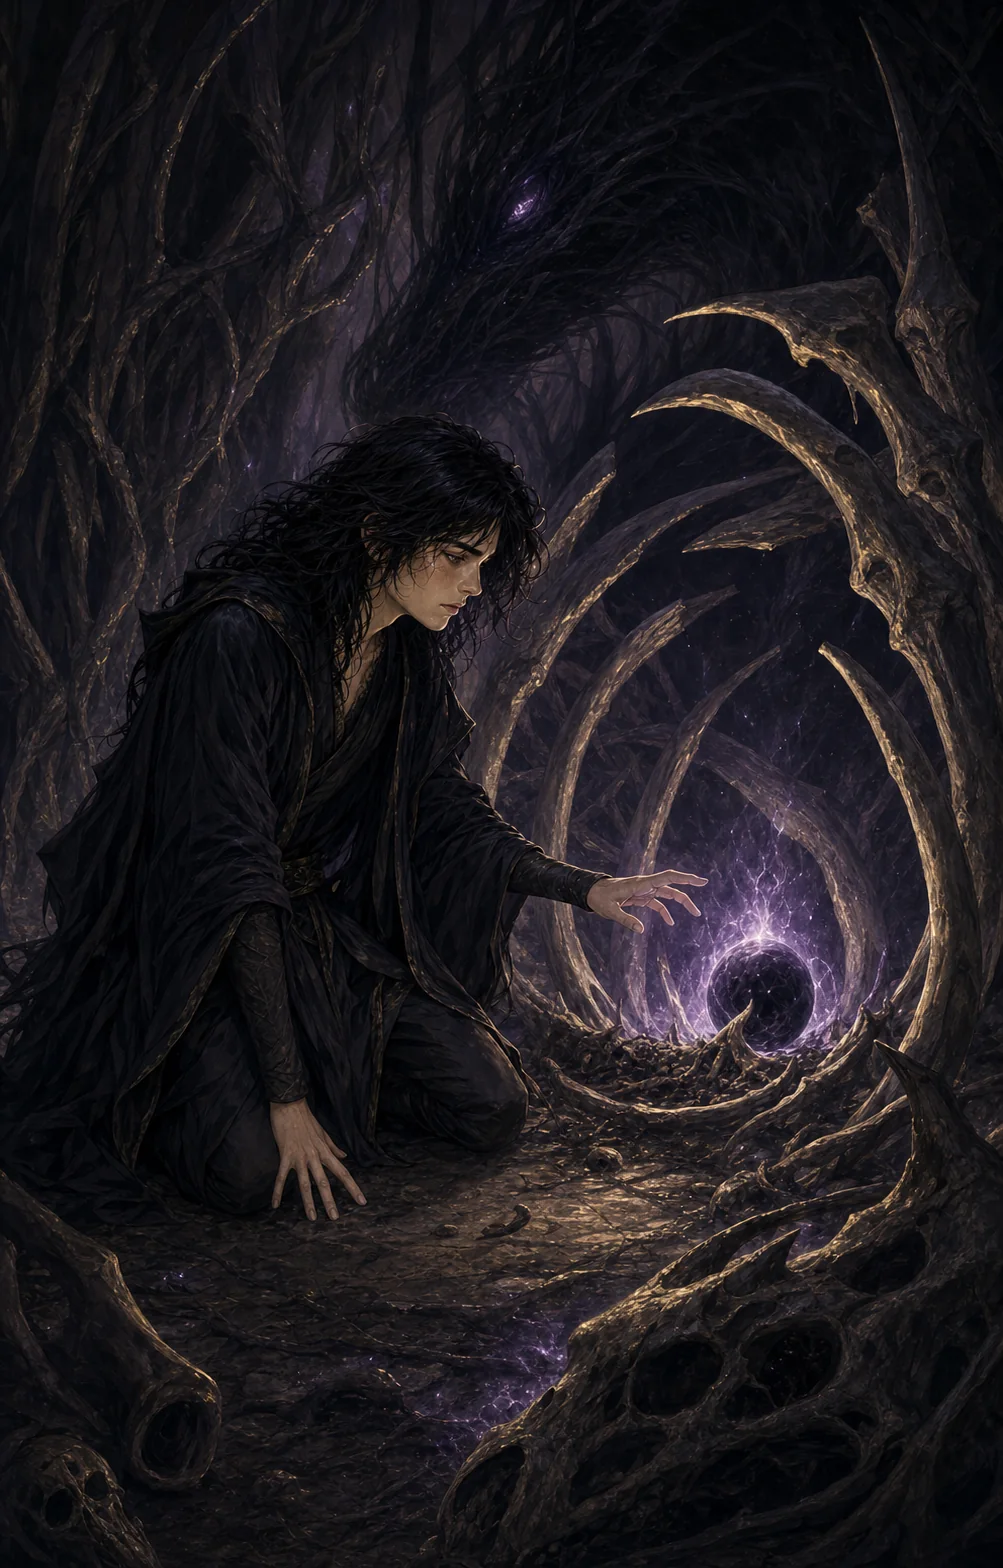
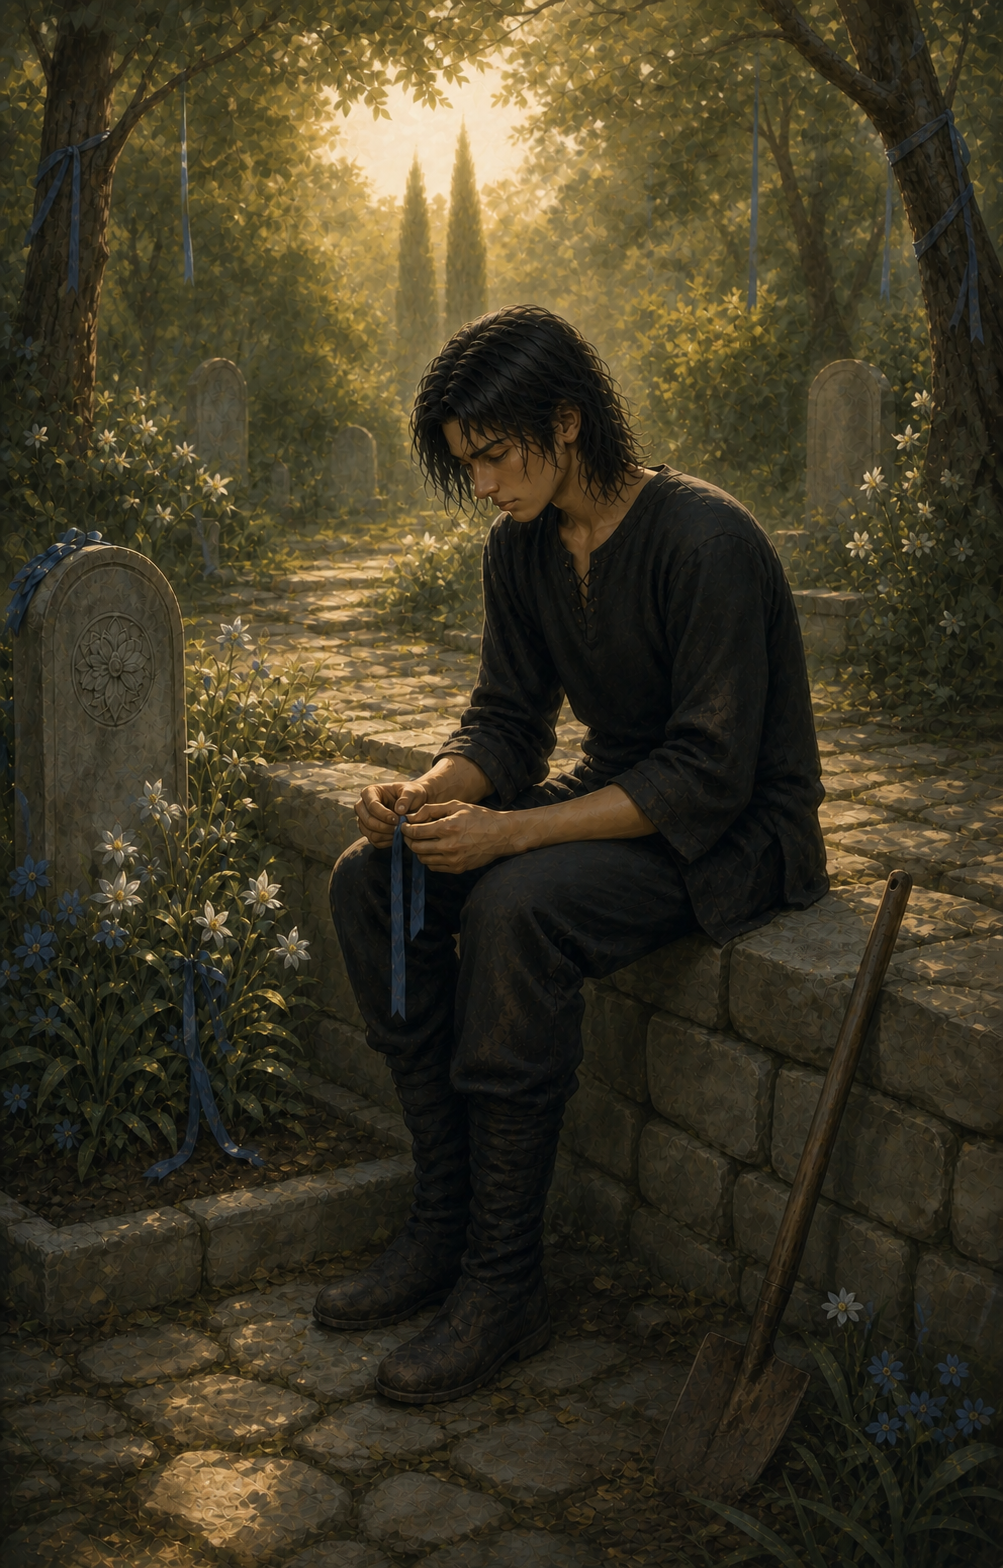
Adiciona workflow de publicação no GitHub Pages, atualiza configuração de coleção de livros e melhora navegação entre capítulos

diff --git a/src/content.config.ts b/src/content.config.ts
@@ -1,4 +1,4 @@
 import { defineCollection, z } from 'astro:content';
 import { glob } from 'astro/loaders';
-const books = defineCollection({ loader: glob({ pattern: '**/*.md', base: './src/content/books' }), schema: z.object({ bookId:z.string(), bookTitle:z.string(), bookLabel:z.string(), slug:z.string(), label:z.string(), title:z.string(), order:z.number(), minutes:z.number(), pdf:z.string(), published:z.boolean().default(true) }) });
+const books = defineCollection({ loader: glob({ pattern: '**/*.md', base: './src/content/books', generateId: ({ entry }) => entry.replace(/\.md$/, '') }), schema: z.object({ bookId:z.string(), bookTitle:z.string(), bookLabel:z.string(), slug:z.string(), label:z.string(), title:z.string(), order:z.number(), minutes:z.number(), pdf:z.string(), published:z.boolean().default(true) }) });
 export const collections = { books };
